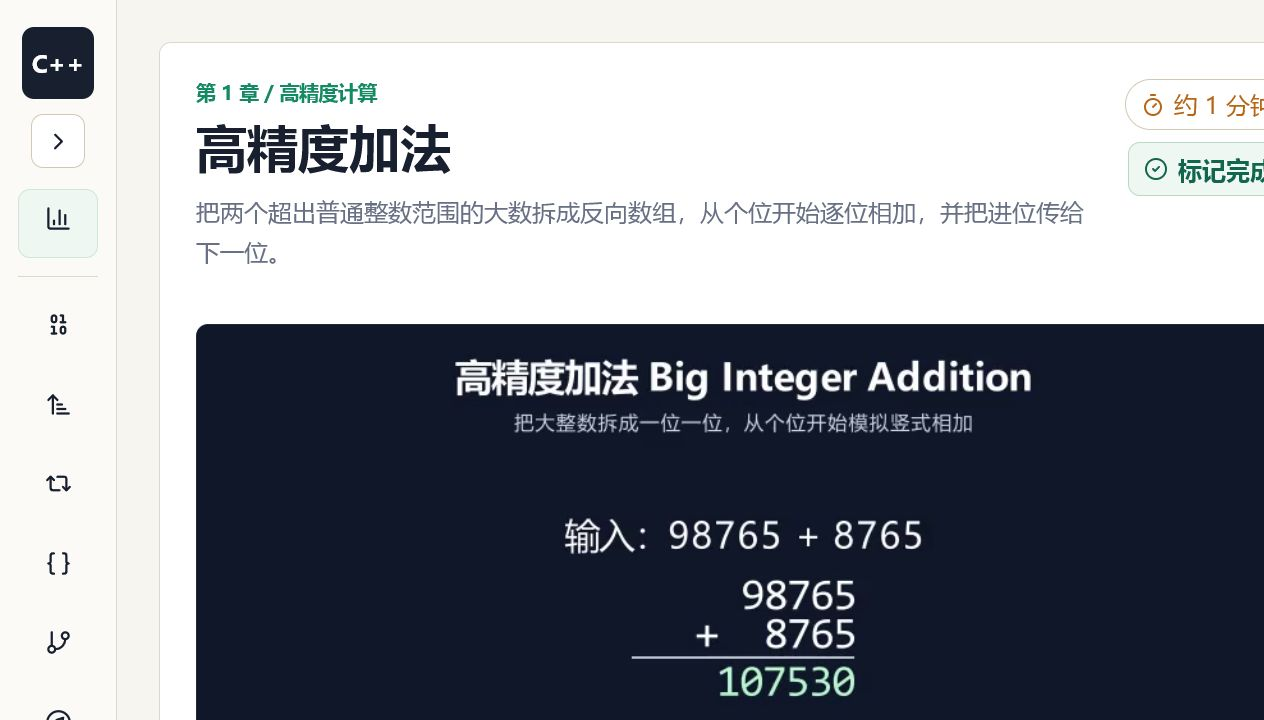
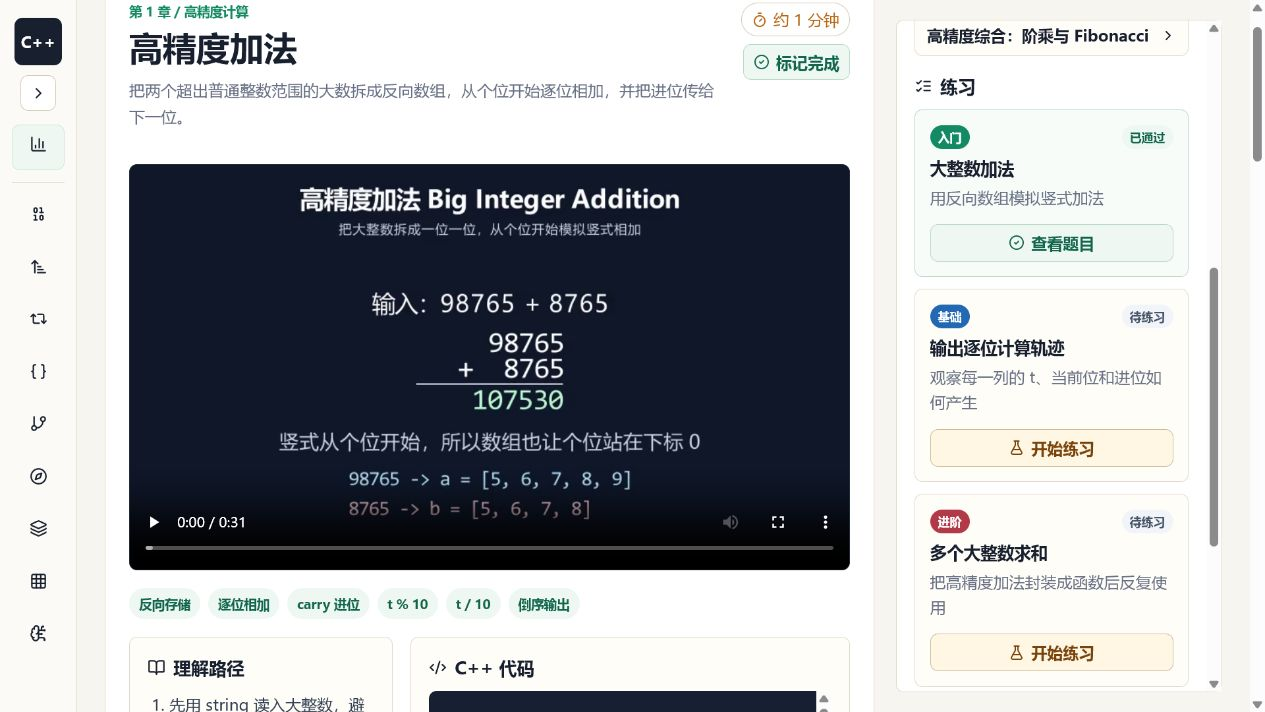
Fix Chinese font rendering in competition material

diff --git a/scripts/build_competition_material.py b/scripts/build_competition_material.py
@@ -14,7 +14,7 @@ from docx.shared import Inches, Pt, RGBColor
 
 
 ROOT = Path(__file__).resolve().parents[1]
-OUTPUT = ROOT / "开题报告附加材料-优化版.docx"
+OUTPUT = ROOT / "开题报告附加材料-优化版-宋体-图1修正版.docx"
 ASSET_DIR = ROOT / "docs" / "assets" / "readme"
 GENERATED_DIR = ROOT / ".codex-docx-assets"
 
@@ -41,6 +41,8 @@ LINE = "D9E2EC"
 LIGHT = "F4F6F9"
 WHITE = "FFFFFF"
 RED = "9B1C1C"
+CJK_BODY_FONT = "Microsoft YaHei"
+CJK_HEADING_FONT = "宋体"
 
 
 def rgb(hex_color: str) -> RGBColor:
@@ -49,7 +51,7 @@ def rgb(hex_color: str) -> RGBColor:
 
 def set_run_font(run, size: float | None = None, color: str = INK, bold: bool | None = None,
                  italic: bool | None = None, ascii_font: str = "Calibri",
-                 east_asia_font: str = "Microsoft YaHei") -> None:
+                 east_asia_font: str = CJK_BODY_FONT) -> None:
     run.font.name = ascii_font
     run._element.get_or_add_rPr().rFonts.set(qn("w:ascii"), ascii_font)
     run._element.get_or_add_rPr().rFonts.set(qn("w:hAnsi"), ascii_font)
@@ -167,7 +169,7 @@ def configure_document(doc: Document) -> None:
     normal.font.name = "Calibri"
     normal._element.rPr.rFonts.set(qn("w:ascii"), "Calibri")
     normal._element.rPr.rFonts.set(qn("w:hAnsi"), "Calibri")
-    normal._element.rPr.rFonts.set(qn("w:eastAsia"), "Microsoft YaHei")
+    normal._element.rPr.rFonts.set(qn("w:eastAsia"), CJK_BODY_FONT)
     normal.font.size = Pt(11)
     normal.font.color.rgb = rgb(INK)
     normal.paragraph_format.alignment = WD_ALIGN_PARAGRAPH.JUSTIFY
@@ -185,7 +187,8 @@ def configure_document(doc: Document) -> None:
         style.font.name = "Calibri"
         style._element.rPr.rFonts.set(qn("w:ascii"), "Calibri")
         style._element.rPr.rFonts.set(qn("w:hAnsi"), "Calibri")
-        style._element.rPr.rFonts.set(qn("w:eastAsia"), "Microsoft YaHei")
+        style._element.rPr.rFonts.set(qn("w:eastAsia"), CJK_HEADING_FONT)
+        style._element.rPr.rFonts.attrib.pop(qn("w:eastAsiaTheme"), None)
         style.font.size = Pt(size)
         style.font.bold = True
         style.font.color.rgb = rgb(color)
@@ -194,9 +197,17 @@ def configure_document(doc: Document) -> None:
         style.paragraph_format.keep_with_next = True
         style.paragraph_format.keep_together = True
 
+    # Make every Chinese title style explicit so Word cannot resolve the
+    # major-East-Asia theme to MS Gothic on another machine.
+    for name in ["Title", "Subtitle", *[f"Heading {i}" for i in range(1, 10)]]:
+        style = styles[name]
+        r_fonts = style._element.get_or_add_rPr().get_or_add_rFonts()
+        r_fonts.set(qn("w:eastAsia"), CJK_HEADING_FONT)
+        r_fonts.attrib.pop(qn("w:eastAsiaTheme"), None)
+
     caption = styles["Caption"]
     caption.font.name = "Calibri"
-    caption._element.rPr.rFonts.set(qn("w:eastAsia"), "Microsoft YaHei")
+    caption._element.rPr.rFonts.set(qn("w:eastAsia"), CJK_BODY_FONT)
     caption.font.size = Pt(9)
     caption.font.color.rgb = rgb(MUTED)
     caption.paragraph_format.space_before = Pt(4)
@@ -207,7 +218,7 @@ def configure_document(doc: Document) -> None:
     hp = header.paragraphs[0]
     hp.alignment = WD_ALIGN_PARAGRAPH.LEFT
     run = hp.add_run("青少年 C++ 算法可视化教学系统")
-    set_run_font(run, size=9, color=MUTED, bold=True)
+    set_run_font(run, size=9, color=MUTED, bold=True, east_asia_font=CJK_HEADING_FONT)
     run = hp.add_run("  |  开题报告附加材料 · 参赛项目佐证")
     set_run_font(run, size=9, color=MUTED)
     footer = section.footer
@@ -474,10 +485,10 @@ def arrow(draw, start, end, fill="#16835f", width=8):
 
 
 def create_learning_loop_png(path: Path) -> None:
-    img = Image.new("RGB", (1800, 630), "#f8fafc")
+    img = Image.new("RGB", (1800, 620), "#f8fafc")
     d = ImageDraw.Draw(img)
-    center_text(d, (0, 30, 1800, 90), "从“看懂”到“会写”，再回到“精准教”", font(38, True), "#0f172a")
-    center_text(d, (0, 88, 1800, 128), "动画、代码、练习、反馈与教学诊断使用同一知识映射", font(22), "#64748b")
+    center_text(d, (0, 22, 1800, 78), "从“看懂”到“会写”，再回到“精准教”", font(37, True), "#0f172a")
+    center_text(d, (0, 80, 1800, 120), "动画、代码、练习、反馈与教学诊断使用同一知识映射", font(22), "#64748b")
     items = [
         ("① 动画理解", "状态 / 指针 / 调用栈", "#0f172a", "#0f172a", "#ffffff"),
         ("② 代码映射", "变量与步骤同步", "#ffffff", "#16a34a", "#166534"),
@@ -486,18 +497,19 @@ def create_learning_loop_png(path: Path) -> None:
         ("⑤ 分层反馈", "提示 / 题解 / 错题", "#ffffff", "#7c3aed", "#6d28d9"),
         ("⑥ 教师诊断", "薄弱点 / 教学建议", "#16835f", "#16835f", "#ffffff"),
     ]
-    x0, y0, w, h, gap = 55, 205, 245, 150, 45
+    # Four balanced vertical bands: heading, process, feedback, and note.
+    x0, y0, w, h, gap = 55, 145, 245, 160, 45
     for i, (title, sub, fill, outline, text_color) in enumerate(items):
         x = x0 + i * (w + gap)
         rounded_box(d, (x, y0, x + w, y0 + h), fill, outline, width=5)
-        center_text(d, (x, y0 + 20, x + w, y0 + 80), title, font(27, True), text_color)
-        center_text(d, (x, y0 + 78, x + w, y0 + 128), sub, font(20), "#d1fae5" if fill != "#ffffff" else "#52606d")
+        center_text(d, (x, y0 + 20, x + w, y0 + 83), title, font(28, True), text_color)
+        center_text(d, (x, y0 + 88, x + w, y0 + 136), sub, font(20), "#d1fae5" if fill != "#ffffff" else "#52606d")
         if i < len(items) - 1:
             arrow(d, (x + w + 5, y0 + h // 2), (x + w + gap - 5, y0 + h // 2))
-    d.arc((160, 330, 1650, 560), start=5, end=175, fill="#16835f", width=8)
-    d.polygon([(166, 441), (190, 426), (190, 456)], fill="#16835f")
-    center_text(d, (0, 450, 1800, 510), "数据反馈驱动内容迭代与下一次教学", font(27, True), "#16835f")
-    center_text(d, (0, 520, 1800, 580), "区别于只播放动画或只提供题库的单点工具，本项目交付的是完整学习闭环。", font(22), "#52606d")
+    d.arc((160, 280, 1650, 490), start=5, end=175, fill="#16835f", width=8)
+    d.polygon([(166, 394), (190, 379), (190, 409)], fill="#16835f")
+    center_text(d, (0, 395, 1800, 445), "数据反馈驱动内容迭代与下一次教学", font(27, True), "#16835f")
+    center_text(d, (0, 520, 1800, 560), "区别于只播放动画或只提供题库的单点工具，本项目交付的是完整学习闭环。", font(20), "#52606d")
     img.save(path, quality=95)
 
 
@@ -569,22 +581,22 @@ def build() -> None:
     p.paragraph_format.space_after = Pt(6)
     p.alignment = WD_ALIGN_PARAGRAPH.CENTER
     r = p.add_run("比赛参赛项目 · 开题报告附加材料")
-    set_run_font(r, size=12, color=GREEN, bold=True)
+    set_run_font(r, size=12, color=GREEN, bold=True, east_asia_font=CJK_HEADING_FONT)
     p = doc.add_paragraph()
     p.alignment = WD_ALIGN_PARAGRAPH.CENTER
     p.paragraph_format.space_after = Pt(8)
     r = p.add_run("青少年 C++ 算法可视化教学系统")
-    set_run_font(r, size=25, color=NAVY, bold=True)
+    set_run_font(r, size=25, color=NAVY, bold=True, east_asia_font=CJK_HEADING_FONT)
     p = doc.add_paragraph()
     p.alignment = WD_ALIGN_PARAGRAPH.CENTER
     p.paragraph_format.space_after = Pt(4)
     r = p.add_run("让抽象算法看得见、写得出、练得会")
-    set_run_font(r, size=15, color=DARK_BLUE, bold=True)
+    set_run_font(r, size=15, color=DARK_BLUE, bold=True, east_asia_font=CJK_HEADING_FONT)
     p = doc.add_paragraph()
     p.alignment = WD_ALIGN_PARAGRAPH.CENTER
     p.paragraph_format.space_after = Pt(18)
     r = p.add_run("可运行全栈 MVP | 算法动画 × 在线判题 × 学习数据闭环")
-    set_run_font(r, size=10.5, color=MUTED)
+    set_run_font(r, size=10.5, color=MUTED, east_asia_font=CJK_HEADING_FONT)
 
     add_picture(doc, ASSET_DIR / "lesson-page.png", 6.45,
                 "课程页将算法动画、理解路径、C++ 代码与练习入口放在同一学习空间",
@@ -781,7 +793,7 @@ def build() -> None:
     doc.core_properties.title = "青少年 C++ 算法可视化教学系统——开题报告附加材料"
     doc.core_properties.subject = "比赛参赛项目佐证材料"
     doc.core_properties.keywords = "C++, 算法可视化, Manim, 在线判题, 教学数据"
-    doc.core_properties.comments = "narrative_proposal preset; CJK font override: Microsoft YaHei"
+    doc.core_properties.comments = "narrative_proposal preset; CJK body: Microsoft YaHei; Chinese headings: SimSun"
     doc.save(OUTPUT)
     print(OUTPUT)
 